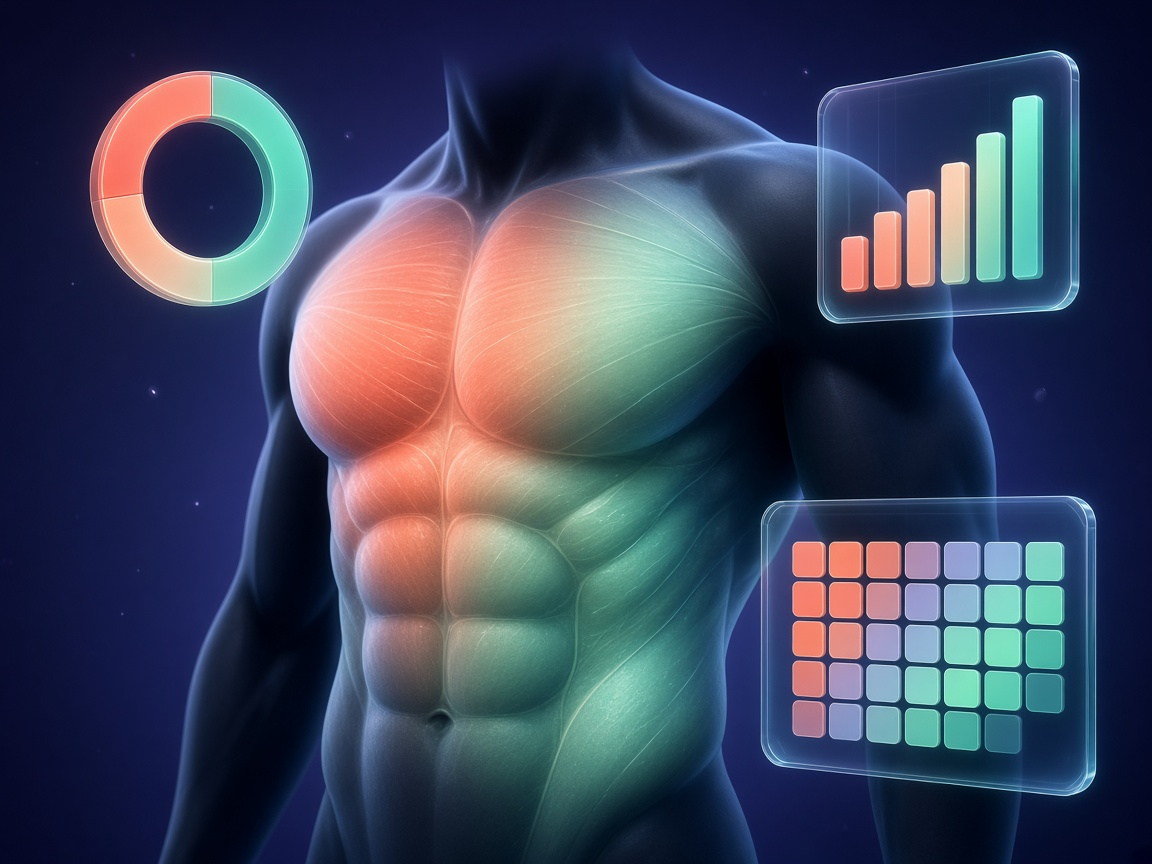
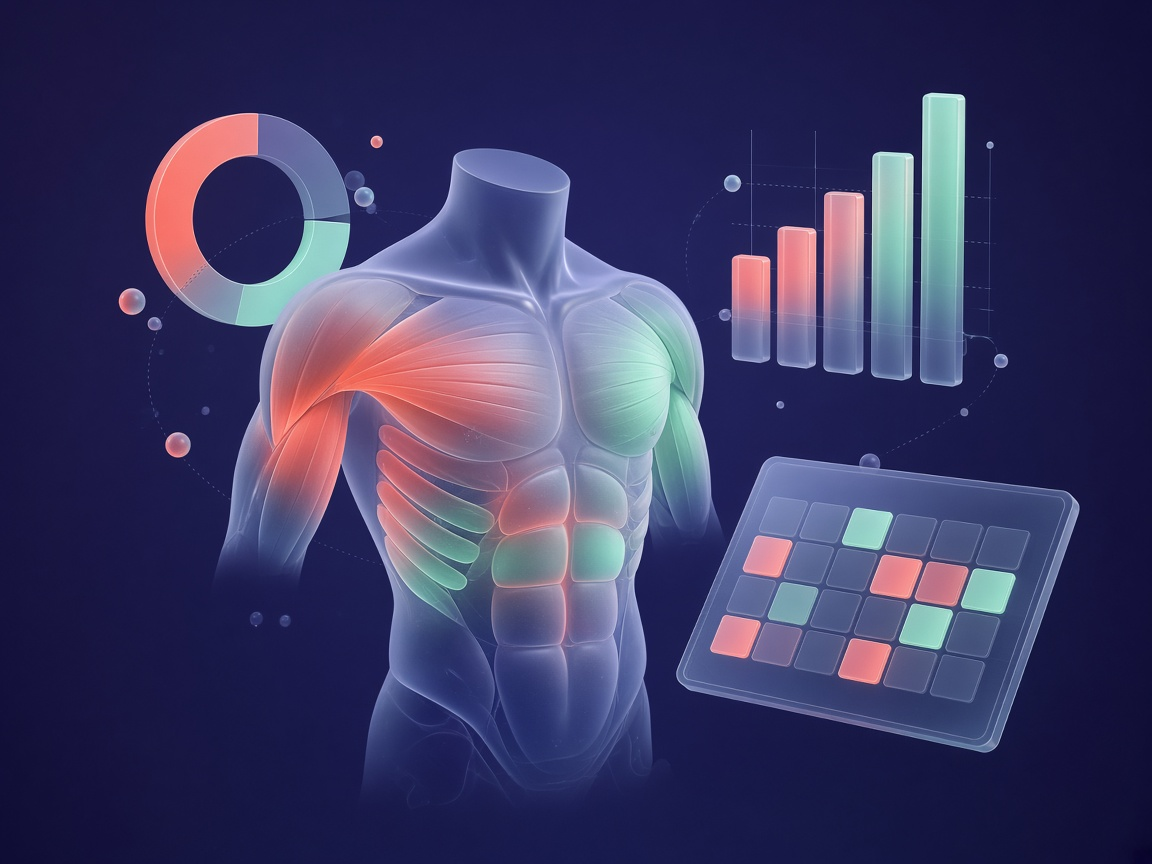
Replace photoreal people with original illustrated artwork.

diff --git a/index.html b/index.html
@@ -333,7 +333,7 @@
 
   <header class="hero" id="top">
     <div class="hero-media">
-      <img src="./images/hero.jpg" alt="A full gym at night — squat rack, cables, machines, and free weights" />
+      <img src="./images/hero.jpg" alt="Illustrated gym with a squat rack, cables, machines, and free weights" />
     </div>
     <div class="hero-copy">
       <p class="eyebrow reveal">Fitness coach · Android now · iPhone next</p>
@@ -449,7 +449,7 @@
         </div>
       </div>
       <figure class="photo">
-        <img src="./images/videos.jpg" alt="Motion frames of a strength exercise in coral and mint light" />
+        <img src="./images/videos.jpg" alt="Illustrated motion frames of a cable exercise in coral and mint light" />
       </figure>
     </div>
   </section>
@@ -467,7 +467,7 @@
         </div>
       </div>
       <figure class="photo">
-        <img src="./images/progress.jpg" alt="Athlete with a muscle heatmap and floating progress charts" />
+        <img src="./images/progress.jpg" alt="Illustrated glass figure with a muscle heatmap and progress charts" />
       </figure>
     </div>
   </section>
